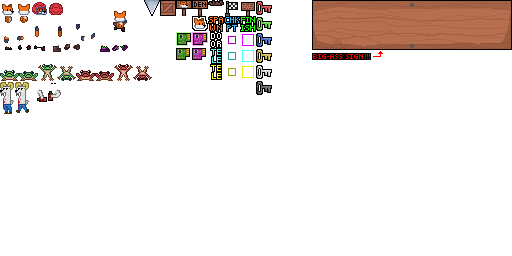
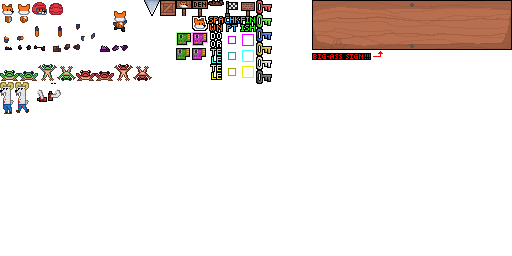
fbbbfbdfb

Changed region(s): [[0.5, 0.0, 0.5312, 0.375]]

diff --git a/src/game/entity/mod.rs b/src/game/entity/mod.rs
@@ -1,5 +1,5 @@
 use chip::Chip;
-use crate_entity::Crate;
+use crate_entity::{Crate, CrateKind};
 use frog::Frog;
 use goat::Goat;
 use key::Key;
@@ -17,51 +17,30 @@ pub mod goat;
 
 #[derive(Clone, Copy, PartialEq, Eq, Debug)]
 pub enum EntityKind {
+    Crate(CrateKind),
     Key(LockColor),
-    KeyCrate(LockColor),
     Chip,
-    ChipCrate(bool), // boolean represents small/big amount of chips
     Life,
-    LifeCrate,
-
     Frog,
-    FrogCrate(bool), // one or a few
     Goat,
 }
 
 impl EntityKind {
-    fn uncrated(&self) -> EntityKind {
-        match self {
-            EntityKind::KeyCrate(col) => EntityKind::Key(*col),
-            EntityKind::ChipCrate(_)  => EntityKind::Chip,
-            EntityKind::LifeCrate     => EntityKind::Life,
-            EntityKind::FrogCrate(_)  => EntityKind::Frog,
-            _ => *self
-        }
-    }
-
     // The hitbox of the entity
     pub fn hitbox(&self) -> Rect {
         match self {
+            Self::Crate(_) => Crate::hitbox(),
             Self::Key(_) => Key::hitbox(),
             Self::Chip | Self::Life => Chip::hitbox(),
             Self::Frog => Frog::hitbox(),
             Self::Goat => Goat::hitbox(),
-
-            // Crates
-            Self::KeyCrate(_)  |
-            Self::ChipCrate(_) |
-            Self::LifeCrate    |
-            Self::FrogCrate(_) => Crate::hitbox(),
         }
     }
     // The offset of this entity when it's being spawned into the level and displayed in the view 
     pub fn tile_offset(&self) -> Vec2 {
         match self {
             // Crates have no offset
-            Self::KeyCrate(_) | Self::ChipCrate(_) |
-            Self::LifeCrate   | Self::FrogCrate(_) => Vec2::ZERO,
-
+            Self::Crate(_)=> Vec2::ZERO,
             Self::Key(_) => Key::tile_offset(),
             Self::Chip | Self::Life => Chip::tile_offset(),
             Self::Frog => Frog::tile_offset(),
@@ -73,8 +52,7 @@ impl EntityKind {
     pub fn object_selector_offset(&self) -> Vec2 {
         match self {
             // Crates have no offset
-            Self::KeyCrate(_) | Self::ChipCrate(_) |
-            Self::LifeCrate   | Self::FrogCrate(_) => Vec2::ZERO,
+            Self::Crate(_) => Vec2::ZERO,
             // Most things don't...
             Self::Key(_) |
             Self::Chip | Self::Life => Vec2::ZERO,
@@ -86,23 +64,51 @@ impl EntityKind {
     // The hitbox in the object selector
     pub fn object_selector_size(&self) -> Vec2 {
         match self {
+            Self::Crate(_) => Crate::hitbox().size(),
             Self::Key(_) => Key::hitbox().size(),
             Self::Chip | Self::Life => Chip::object_selector_size(),
             Self::Frog => Frog::object_selector_rect().size(),
             Self::Goat => Goat::object_selector_rect().size(),
-
-            // Crates
-            Self::KeyCrate(_)  |
-            Self::ChipCrate(_) |
-            Self::LifeCrate    |
-            Self::FrogCrate(_) => Crate::hitbox().size(),
         }
     }
 
     // Draw the entity kind, for use in the editor
     pub fn draw_editor(&self, transparent: bool, in_view: bool, entity_pos: Vec2, camera_pos: Vec2, resources: &Resources) {
-        let crated = *self != self.uncrated();
 
+        // Work out the position of the entity 
+        let pos = match in_view {
+            // Position it based on the offset
+            true  => entity_pos + self.tile_offset(),
+            false => entity_pos + self.object_selector_offset(),
+        };
+
+        let color = Color::new(1.0, 1.0, 1.0, if transparent { 0.5 } else { 1.0 });
+
+        match self {
+            EntityKind::Crate(kind) => {
+                Crate::draw(pos, camera_pos, color, resources);
+                
+                let (hitbox_size) = match kind {
+                    CrateKind::Chip(_) | CrateKind::Life => (Chip::hitbox().size()),
+                    CrateKind::Frog(_) => Frog::object_selector_rect().size(),
+                    CrateKind::Key(_)  => Key::hitbox().size(),
+                };
+                let center = pos + 8.0 - (hitbox_size/2.0);
+
+                match kind {
+                    CrateKind::Chip(false) => Chip::draw_editor(false, center, camera_pos, color, resources),
+                    CrateKind::Frog(false) => Frog::draw_editor(center, camera_pos, color, resources),
+                    _ => {}
+                }
+            }
+            EntityKind::Key(c) => Key::draw_editor(*c, pos, camera_pos, color, resources),
+            EntityKind::Chip => Chip::draw_editor(false, pos, camera_pos, color, resources),
+            EntityKind::Life => Chip::draw_editor(true, pos, camera_pos, color, resources),
+            EntityKind::Frog => Frog::draw_editor(pos, camera_pos, color, resources),
+            EntityKind::Goat => Goat::draw_editor(pos, camera_pos, color, resources),
+        }
+        
+        /*
         // If the entity is transparent (used for when placing it but not placed yet), draw partially transparent
         // If the entity is in a crate, we want to draw it partially transparent
         let color = match (transparent, crated) {
@@ -143,13 +149,25 @@ impl EntityKind {
         // Draw the hitbox (might remove this)
         if in_view {
             // draw_rect_lines(self.hitbox().offset(entity_pos + self.tile_offset() - camera_pos), BLUE);
-        }
+        }*/
     }
 }
 
 impl From<EntityKind> for u8 {
     fn from(value: EntityKind) -> Self {
         match value {
+            EntityKind::Crate(CrateKind::Frog(false)) => 20,
+            EntityKind::Crate(CrateKind::Frog(true))  => 21,
+            EntityKind::Crate(CrateKind::Chip(false)) => 15,
+            EntityKind::Crate(CrateKind::Chip(true))  => 16,
+            EntityKind::Crate(CrateKind::Life) => 18,
+            EntityKind::Crate(CrateKind::Key(LockColor::Red))     => 7,
+            EntityKind::Crate(CrateKind::Key(LockColor::Green))   => 8,
+            EntityKind::Crate(CrateKind::Key(LockColor::Blue))    => 9,
+            EntityKind::Crate(CrateKind::Key(LockColor::Yellow))  => 10,
+            EntityKind::Crate(CrateKind::Key(LockColor::White))   => 11,
+            EntityKind::Crate(CrateKind::Key(LockColor::Black))   => 12,
+            EntityKind::Crate(CrateKind::Key(LockColor::Rainbow)) => 13,
             EntityKind::Key(LockColor::Red)     => 0,
             EntityKind::Key(LockColor::Green)   => 1,
             EntityKind::Key(LockColor::Blue)    => 2,
@@ -157,22 +175,9 @@ impl From<EntityKind> for u8 {
             EntityKind::Key(LockColor::White)   => 4,
             EntityKind::Key(LockColor::Black)   => 5,
             EntityKind::Key(LockColor::Rainbow) => 6,
-            EntityKind::KeyCrate(LockColor::Red)     => 7,
-            EntityKind::KeyCrate(LockColor::Green)   => 8,
-            EntityKind::KeyCrate(LockColor::Blue)    => 9,
-            EntityKind::KeyCrate(LockColor::Yellow)  => 10,
-            EntityKind::KeyCrate(LockColor::White)   => 11,
-            EntityKind::KeyCrate(LockColor::Black)   => 12,
-            EntityKind::KeyCrate(LockColor::Rainbow) => 13,
             EntityKind::Chip      => 14,
-            EntityKind::ChipCrate(false) => 15,
-            EntityKind::ChipCrate(true)  => 16,
             EntityKind::Life      => 17,
-            EntityKind::LifeCrate => 18,
-
             EntityKind::Frog             => 19,
-            EntityKind::FrogCrate(false) => 20,
-            EntityKind::FrogCrate(true)  => 21,
             EntityKind::Goat => 22,
         }
     }
@@ -182,6 +187,18 @@ impl TryFrom<u8> for EntityKind {
     type Error = ();
     fn try_from(value: u8) -> Result<Self, Self::Error> {
         match value {
+            20 => Ok(EntityKind::Crate(CrateKind::Frog(false))),
+            21 => Ok(EntityKind::Crate(CrateKind::Frog(true))),
+            15 => Ok(EntityKind::Crate(CrateKind::Chip(false))),
+            16 => Ok(EntityKind::Crate(CrateKind::Chip(true))),
+            18 => Ok(EntityKind::Crate(CrateKind::Life)),
+             7 => Ok(EntityKind::Crate(CrateKind::Key(LockColor::Red))),
+             8 => Ok(EntityKind::Crate(CrateKind::Key(LockColor::Green))),
+             9 => Ok(EntityKind::Crate(CrateKind::Key(LockColor::Blue))),
+            10 => Ok(EntityKind::Crate(CrateKind::Key(LockColor::Yellow))),
+            11 => Ok(EntityKind::Crate(CrateKind::Key(LockColor::White))),
+            12 => Ok(EntityKind::Crate(CrateKind::Key(LockColor::Black))),
+            13 => Ok(EntityKind::Crate(CrateKind::Key(LockColor::Rainbow))),
              0 => Ok(EntityKind::Key(LockColor::Red)),
              1 => Ok(EntityKind::Key(LockColor::Green)),
              2 => Ok(EntityKind::Key(LockColor::Blue)),
@@ -189,21 +206,9 @@ impl TryFrom<u8> for EntityKind {
              4 => Ok(EntityKind::Key(LockColor::White)),
              5 => Ok(EntityKind::Key(LockColor::Black)),
              6 => Ok(EntityKind::Key(LockColor::Rainbow)),
-             7 => Ok(EntityKind::KeyCrate(LockColor::Red)),
-             8 => Ok(EntityKind::KeyCrate(LockColor::Green)),
-             9 => Ok(EntityKind::KeyCrate(LockColor::Blue)),
-            10 => Ok(EntityKind::KeyCrate(LockColor::Yellow)),
-            11 => Ok(EntityKind::KeyCrate(LockColor::White)),
-            12 => Ok(EntityKind::KeyCrate(LockColor::Black)),
-            13 => Ok(EntityKind::KeyCrate(LockColor::Rainbow)),
             14 => Ok(EntityKind::Chip),
-            15 => Ok(EntityKind::ChipCrate(false)),
-            16 => Ok(EntityKind::ChipCrate(true)),
             17 => Ok(EntityKind::Life),
-            18 => Ok(EntityKind::LifeCrate),
             19 => Ok(EntityKind::Frog),
-            20 => Ok(EntityKind::FrogCrate(false)),
-            21 => Ok(EntityKind::FrogCrate(true)),
             22 => Ok(EntityKind::Goat),
             _ => Err(())
         }

diff --git a/src/editor/level_view/object_selector.rs b/src/editor/level_view/object_selector.rs
@@ -2,7 +2,7 @@
 
 use macroquad::{color::{Color, WHITE}, color_u8, math::{vec2, Rect, Vec2}, shapes::draw_rectangle, texture::{draw_texture_ex, DrawTextureParams}};
 
-use crate::{game::{entity::EntityKind, level::{things::DoorKind, tile::{render_tile, BrickColor, CheckerBlockColor, LockColor, Tile, TileRenderLayer}, TileDrawKind, TileRenderData}}, resources::Resources, text_renderer::{render_text, Align, Font}, ui::{button::{Button, ButtonState}, Ui}, VIEW_SIZE};
+use crate::{game::{entity::{crate_entity::CrateKind, EntityKind}, level::{things::DoorKind, tile::{render_tile, BrickColor, CheckerBlockColor, LockColor, Tile, TileRenderLayer}, TileDrawKind, TileRenderData}}, resources::Resources, text_renderer::{render_text, Align, Font}, ui::{button::{Button, ButtonState}, Ui}, VIEW_SIZE};
 
 const BG_COL: Color = color_u8!(255, 255, 255, 100);
 
@@ -72,13 +72,13 @@ impl ObjectSelector {
         ];
         let mut entities = vec![
             (EntityKind::Chip, "Chip".to_string()),
-            (EntityKind::ChipCrate(false), "Chip crate".to_string()),
-            (EntityKind::ChipCrate(true), "Large chip crate".to_string()),
+            (EntityKind::Crate(CrateKind::Chip(false)), "Chip crate".to_string()),
+            (EntityKind::Crate(CrateKind::Chip(true)), "Large chip crate".to_string()),
             (EntityKind::Life, "Life".to_string()),
-            (EntityKind::LifeCrate, "Life crate".to_string()),
+            (EntityKind::Crate(CrateKind::Life), "Life crate".to_string()),
             (EntityKind::Frog, "Frog".to_string()),
-            (EntityKind::FrogCrate(false), "Single-frog crate".to_string()),
-            (EntityKind::FrogCrate(true), "Multi-frog crate".to_string()),
+            (EntityKind::Crate(CrateKind::Frog(false)), "Single-frog crate".to_string()),
+            (EntityKind::Crate(CrateKind::Frog(true)), "Multi-frog crate".to_string()),
             (EntityKind::Goat, "Aerosol Kid".to_string()),
         ];
 
@@ -88,7 +88,7 @@ impl ObjectSelector {
             entities.push((EntityKind::Key(*col), format!("{:?} key", col)));
         }
         for col in LockColor::colors().iter() {
-            entities.push((EntityKind::KeyCrate(*col), format!("{:?} key crate", col)));
+            entities.push((EntityKind::Crate(CrateKind::Key(*col)), format!("{:?} key crate", col)));
         }
 
         let others = [
@@ -107,7 +107,6 @@ impl ObjectSelector {
         let mut y = TILES_Y + 12.0;
         for (i, t) in tiles.iter().enumerate() {
             let button = Button::new(Rect::new(x, y, 16.0, 16.0), None, Some(resources.tile_data_manager().data(*t).name().clone()));
-
             x += 20.0;
             if i % wrap == wrap-1 {
                 x = 8.0;

diff --git a/src/game/entity/key.rs b/src/game/entity/key.rs
@@ -23,7 +23,7 @@ impl Key {
             LockColor::Rainbow => ((resources.tile_animation_timer() % (RAINBOW_LOCK_FRAME_DUR * 4.0)) / RAINBOW_LOCK_FRAME_DUR).floor() as usize,
             c @ _ => c as usize,
         };
-        let rect = Rect::new(256.0, sprite as f32 * 16.0, 16.0, 15.0);
+        let rect = Rect::new(256.0, sprite as f32 * 14.0, 16.0, 14.0);
         resources.draw_rect(pos - camera_pos, rect, false, color, resources.entity_atlas());
     }
 }

diff --git a/src/game/entity/crate_entity.rs b/src/game/entity/crate_entity.rs
@@ -2,10 +2,18 @@
 
 use macroquad::{color::Color, math::{Rect, Vec2}};
 
-use crate::resources::Resources;
+use crate::{game::level::tile::LockColor, resources::Resources};
+
+#[derive(Clone, Copy, PartialEq, Eq, Debug)]
+pub enum CrateKind {
+    Frog(bool), // false for few, true for many
+    Chip(bool), // ditto
+    Life,
+    Key(LockColor),
+}
 
 pub struct Crate {
-
+    kind: CrateKind,
 }
 
 impl Crate {

diff --git a/src/game/player.rs b/src/game/player.rs
@@ -203,7 +203,7 @@ impl Player {
             self.target_x_vel = 0.0;
         }
 
-        self.allow_jumping(self.jump_vel + self.vel.x.abs() / 5.0);
+        self.allow_jumping(self.jump_vel + self.vel.x.abs() / 4.0);
         self.allow_climbing(level, resources);
     }
 
